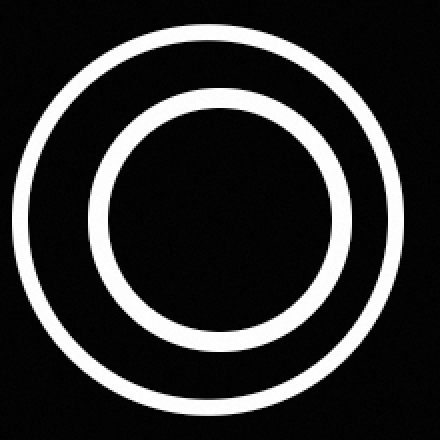
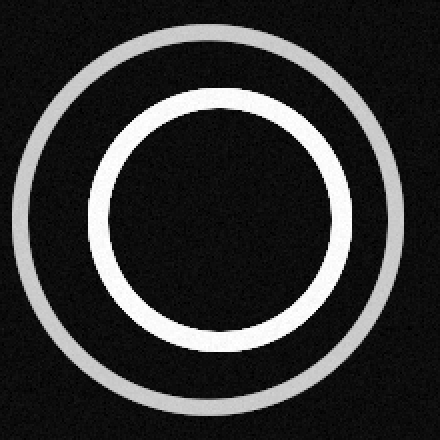
refactor: convert ring scenes and scene_gen to ring_system
The two painted-annulus catalog scenes (planted_offset_ring,
planted_rank1_ring_flat) become navigable ring_system ringlets at the
same centers, radii, widths, and planted offsets; tau = 2 puts the
band at ~0.16 of full scale (the closed-form saturation limit for the
default albedo is ~0.166), well above the 4 DN read noise, so the
navigational intent is preserved.  Measured outcomes: planted_offset
success conf 0.99, recovered (1.42, -0.62) vs (1.41, -0.63) before
(planted 1.43, -0.61); rank1 success conf 0.91 (0.90 before) with the
same rank-1 minimum-norm behavior -- same tiers, baselines regenerated.
scene_gen's ring family emits face-on ring_system ringlets with a
log-uniform tau in [0.2, 4] (contrast now spans faint through
saturated); the doc-image ring panels convert likewise.  The
algorithmic_invariants contact sheet and the doc gallery panels are
regenerated (band placement identical; the diff shows the one-pixel
anti-aliased edges and the tau-photometry brightness change).

Claude-Session: https://claude.ai/code/session_011HoCUAeNeMz5bFmGk2iVBf

diff --git a/util/calibration/scene_gen.py b/util/calibration/scene_gen.py
@@ -115,7 +115,6 @@ def _base(rng: random.Random, *, size: int) -> dict[str, Any]:
         'random_seed': rng.randrange(2**31),
         'exposure_sec': 1.0,
         'bodies': [],
-        'rings': [],
         'noise': {'poisson': True, 'read_noise_dn': _read_noise(rng)},
         'offset_v': dv,
         'offset_u': du,
@@ -325,21 +324,21 @@ def gen_blob(rng: random.Random) -> dict[str, Any]:
     return params
 
 
-def _ringlet(
-    rng: random.Random, *, center_v: float, center_u: float, a_inner: float, a_outer: float
-) -> dict[str, Any]:
-    """One circular RINGLET entry in renderer form."""
+def _ring_feature(rng: random.Random, *, name: str, a: float, width: float) -> dict[str, Any]:
+    """One circular navigable ringlet feature with a log-uniform tau draw.
+
+    tau spans faint (~0.2, a low-contrast band over the noise) through
+    optically thick (~4, the saturated closed-form brightness), so the
+    ring family's contrast regime spans healthy to marginal.
+    """
+    tau = math.exp(rng.uniform(math.log(0.2), math.log(4.0)))
     return {
-        'name': 'SATURN',
-        'feature_type': 'RINGLET',
-        'center_v': center_v,
-        'center_u': center_u,
-        'inner_data': [
-            {'mode': 1, 'a': a_inner, 'rms': 1.0, 'ae': 0.0, 'long_peri': 0.0, 'rate_peri': 0.0}
-        ],
-        'outer_data': [
-            {'mode': 1, 'a': a_outer, 'rms': 1.0, 'ae': 0.0, 'long_peri': 0.0, 'rate_peri': 0.0}
-        ],
+        'name': name,
+        'kind': 'ringlet',
+        'tau': tau,
+        'width': width,
+        'navigable': True,
+        'orbit': {'a': a, 'ae': 0.0, 'long_peri': 0.0, 'rate_peri': 0.0},
     }
 
 
@@ -349,11 +348,14 @@ def gen_ring(rng: random.Random) -> dict[str, Any]:
     Curvature is controlled by pushing the ring center off-frame: an arc from
     a ring of radius R passing through a frame R away from its center is
     nearly straight (the rank-1 regime), while an in-frame center gives
-    fully-curved closed edges.
+    fully-curved closed edges.  The system renders face-on (B = 90, the
+    sky-plane-circle identity) so the drawn radii are exact image radii and
+    the family's curvature regimes are unchanged by projection; brightness
+    follows each feature's tau through the single-scattering photometry.
     """
     size = 220
     params = _base(rng, size=size)
-    rings: list[dict[str, Any]] = []
+    features: list[dict[str, Any]] = []
     n_ringlets = 1 if rng.random() < 0.7 else 2
     flat = rng.random() < 0.3
     if flat:
@@ -367,19 +369,20 @@ def gen_ring(rng: random.Random) -> dict[str, Any]:
         center_v = size / 2 + rng.uniform(-40.0, 40.0)
         center_u = size / 2 + rng.uniform(-40.0, 40.0)
         base_a = rng.uniform(40.0, 80.0)
-    for _ in range(n_ringlets):
+    for index in range(n_ringlets):
         width = rng.uniform(2.0, 35.0)
-        rings.append(
-            _ringlet(
-                rng,
-                center_v=center_v,
-                center_u=center_u,
-                a_inner=base_a,
-                a_outer=base_a + width,
-            )
-        )
+        features.append(_ring_feature(rng, name=f'SATURN-{index + 1}', a=base_a, width=width))
         base_a += width + rng.uniform(10.0, 30.0)
-    params['rings'] = rings
+    params['ring_system'] = {
+        'geometry': {
+            'center_v': center_v,
+            'center_u': center_u,
+            'opening_deg_obs': 90.0,
+            'opening_deg_sun': 90.0,
+            'node_deg': 0.0,
+        },
+        'features': features,
+    }
     return params
 
 

diff --git a/tests/integration/sim_doc_images.py b/tests/integration/sim_doc_images.py
@@ -225,26 +225,31 @@ _GUI_GALLERY: list[tuple[str, dict[str, Any], dict[str, Any]]] = [
         'rings',
         _scene(
             [],
-            rings=[
-                {
-                    'name': 'RINGLET_INNER',
-                    'feature_type': 'RINGLET',
+            ring_system={
+                'geometry': {
                     'center_v': 110.0,
                     'center_u': 110.0,
-                    'inner_data': [{'mode': 1, 'a': 56.0}],
-                    'outer_data': [{'mode': 1, 'a': 66.0}],
-                    'shading_distance': 10.0,
+                    'opening_deg_obs': 90.0,
+                    'opening_deg_sun': 90.0,
+                    'node_deg': 0.0,
                 },
-                {
-                    'name': 'RINGLET_OUTER',
-                    'feature_type': 'RINGLET',
-                    'center_v': 110.0,
-                    'center_u': 110.0,
-                    'inner_data': [{'mode': 1, 'a': 90.0, 'ae': 6.0}],
-                    'outer_data': [{'mode': 1, 'a': 98.0, 'ae': 6.0}],
-                    'shading_distance': 10.0,
-                },
-            ],
+                'features': [
+                    {
+                        'name': 'RINGLET_INNER',
+                        'kind': 'ringlet',
+                        'tau': 2.0,
+                        'width': 10.0,
+                        'orbit': {'a': 56.0},
+                    },
+                    {
+                        'name': 'RINGLET_OUTER',
+                        'kind': 'ringlet',
+                        'tau': 0.7,
+                        'width': 8.0,
+                        'orbit': {'a': 90.0, 'ae': 6.0},
+                    },
+                ],
+            },
         ),
         {'gamma': 1.2},
     ),
@@ -343,19 +348,27 @@ _GUI_GALLERY: list[tuple[str, dict[str, Any], dict[str, Any]]] = [
             optics={'psf': {'match_navigator': True}},
             stars=_scatter_stars(22, 3),
             sky_counts={'a': -1.8, 'b': 0.34, 'density_factor': 1.0},
-            rings=[
-                {
-                    'name': 'RINGLET',
-                    'feature_type': 'RINGLET',
+            ring_system={
+                'geometry': {
                     'center_v': 110.0,
                     'center_u': 110.0,
-                    'inner_data': [{'mode': 1, 'a': 150.0, 'ae': 8.0}],
-                    'outer_data': [{'mode': 1, 'a': 170.0, 'ae': 8.0}],
-                    'shading_distance': 6.0,
-                    # The moon sits in front of the ring (physical depths).
-                    'range_km': 1000000.0,
+                    'opening_deg_obs': 90.0,
+                    'opening_deg_sun': 90.0,
+                    'node_deg': 0.0,
                 },
-            ],
+                # The moon sits in front of the ring (physical depths).
+                'range_km': 1000000.0,
+                'km_per_pixel': 1000.0,
+                'features': [
+                    {
+                        'name': 'RINGLET',
+                        'kind': 'ringlet',
+                        'tau': 1.2,
+                        'width': 20.0,
+                        'orbit': {'a': 150.0, 'ae': 8.0},
+                    },
+                ],
+            },
             noise={'poisson': True, 'read_noise_dn': 4.0},
         ),
         {'gamma': 1.5, 'high_percentile': 99.9},
